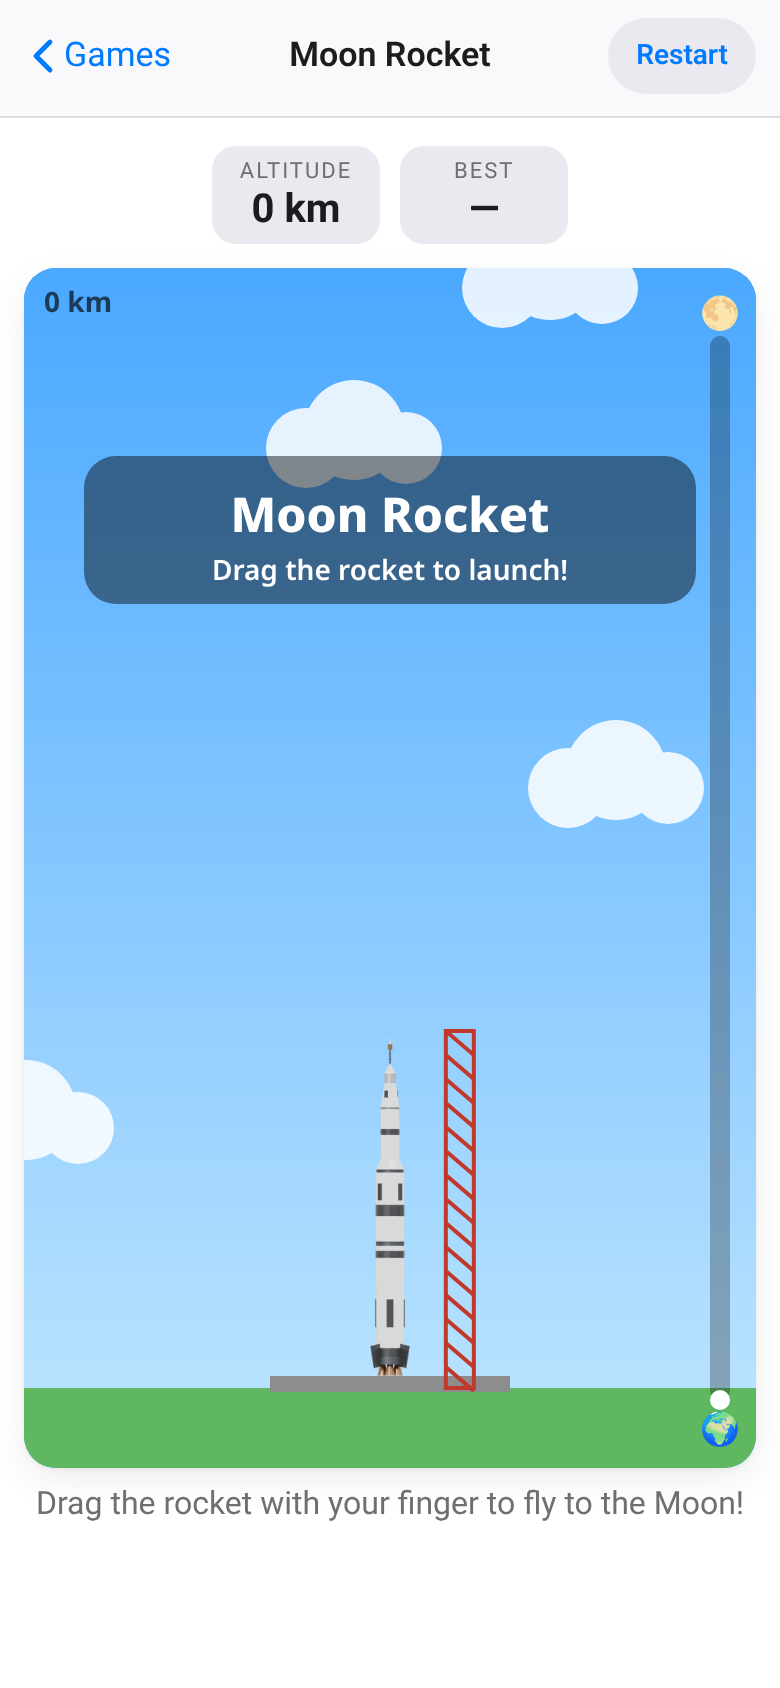
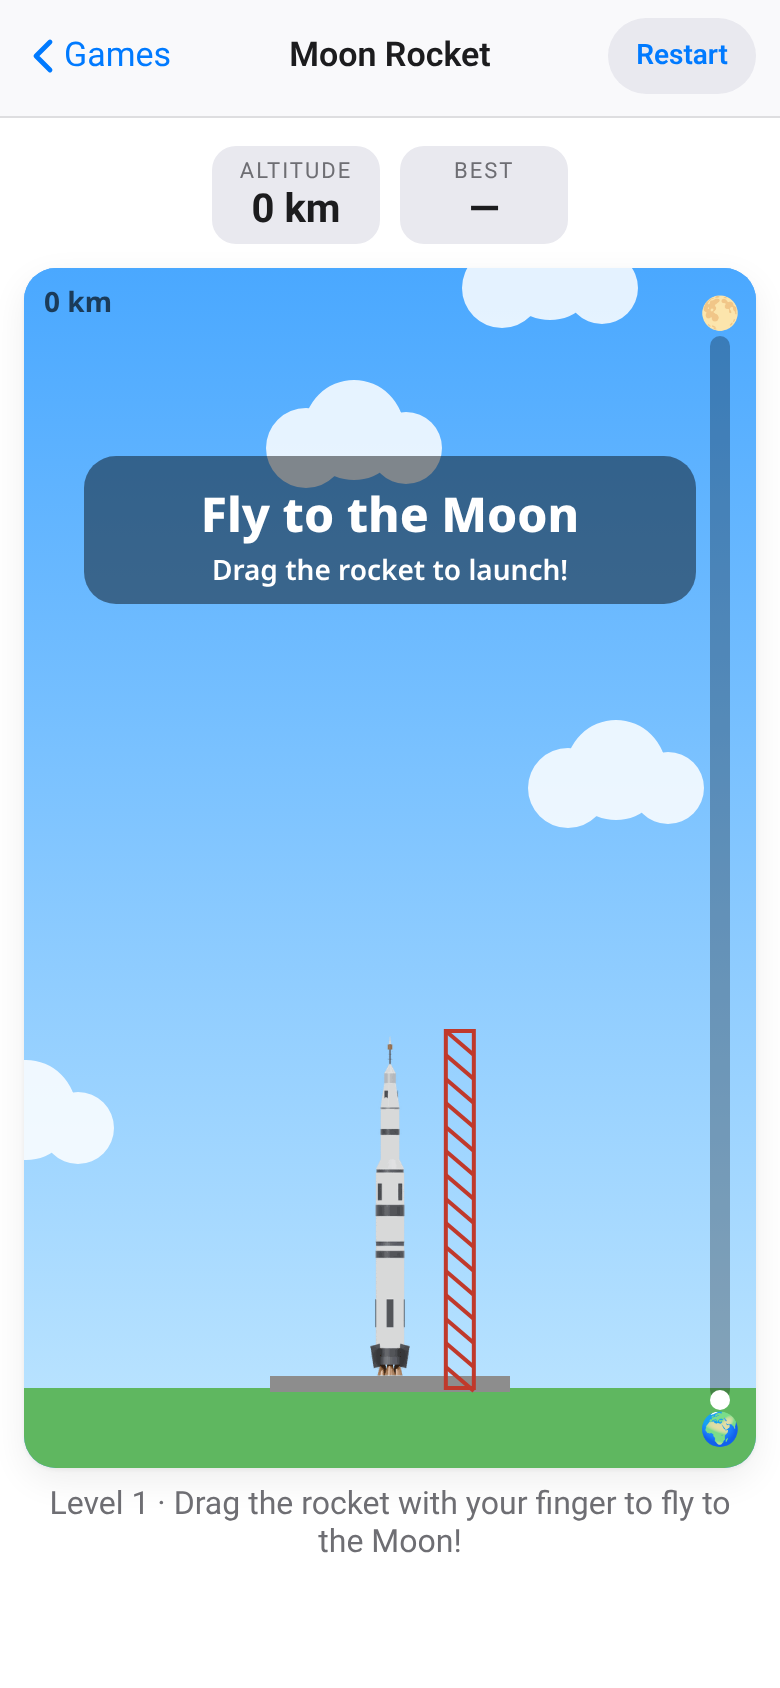
Tests and screenshots for Moon Rocket Level 2 landing

diff --git a/tests/e2e.py b/tests/e2e.py
@@ -228,7 +228,7 @@ with sync_playwright() as p:
     # ================= About =================
     open_app('settings'); page.click('.set-row:has-text("About")'); page.wait_for_timeout(300)
     about = page.inner_text('#appBody')
-    check(all(k in about for k in ['ShellOS', 'Version 1.4.0', 'Apps (19)', 'Games (12)', 'YouTube safety', 'youtube-nocookie.com', 'Screen Time in ShellOS', 'Buddy', 'Safety', 'Shell filter', 'Privacy', 'Open-Meteo', 'Wikipedia', 'iPhone limits', 'volume buttons', 'Guided Access', 'Limit Adult Websites', 'Kampf Kaiser']), 'About has version, apps, games, Buddy, safety, privacy, limits, Screen Time, credits')
+    check(all(k in about for k in ['ShellOS', 'Version 1.5.0', 'Apps (19)', 'Games (12)', 'YouTube safety', 'youtube-nocookie.com', 'Screen Time in ShellOS', 'Buddy', 'Safety', 'Shell filter', 'Privacy', 'Open-Meteo', 'Wikipedia', 'iPhone limits', 'volume buttons', 'Guided Access', 'Limit Adult Websites', 'Kampf Kaiser']), 'About has version, apps, games, Buddy, safety, privacy, limits, Screen Time, credits')
     check('19845' not in about and '19845' not in page.content(), 'About never shows the developer code')
     shot('about.png'); back()
     page.click('.set-row:has-text("Shake for Buddy")'); page.wait_for_timeout(300); shot('extra/settings-shake.png'); back(); back()
@@ -684,9 +684,68 @@ with sync_playwright() as p:
     check(page.evaluate(G + '.banner') is None, 'no stage banner ("Almost there") over the win screen')
     check(mb - 5 <= rw['y'] <= mb, 'at the win the rocket nose touches the Moon (nose %.1f, Moon bottom %.1f)' % (rw['y'], mb))
     check(page.evaluate('LS.gameBest("moonrocket")') == 384400 and 'Moon!' in page.inner_text('.score-row'), 'best = the Moon (384,400 km)')
-    page.wait_for_timeout(700); shot('moonrocket-win.png')
+    check(page.locator('.mr-land-btn:not([hidden])').count() == 1 and 'Land on the Moon' in page.inner_text('.mr-land-btn'), 'Level 1 win shows "Land on the Moon" continue button')
+    check('Restart Level 1' in page.inner_text('#appActions'), 'Level 1 win offers Restart Level 1')
+    page.wait_for_timeout(500); shot('moonrocket-win.png')
+
+    # ================= Moon Rocket Level 2: Land =================
+    page.click('.mr-land-btn'); page.wait_for_timeout(600)
+    check(page.evaluate(G + '.level') == 2 and page.evaluate(G + '.state') == 'land_ready', 'Land button starts Level 2 (landing)')
+    check(page.locator('.mr-thrust:not([hidden])').count() == 1 and page.evaluate(G + '.fuel') == 100, 'Level 2 shows Thrust button and full fuel')
+    check(page.evaluate(G + '.rocket().keep') < 0.5, 'Level 2 uses the upper-stage / lander sprite')
+    pad = page.evaluate(G + '.pad()')
+    check(pad and pad['w'] >= 80, 'landing pad is on the lunar surface')
+    # hard crash: drop onto the pad too fast
+    page.evaluate('(() => { const g = ' + G + '; const p = g.pad(); g.setLand({ state: "land_play", x: p.x + p.w / 2, alt: 5, vy: 20, vx: 0, fuel: 80 }); for (let i = 0; i < 8; i++) g.step(0.05); })()')
+    page.wait_for_timeout(200)
+    check(page.evaluate(G + '.state') == 'land_crash' and 'Bonk' in page.inner_text('.game-msg'), 'too-hard a touchdown crashes gently ("Bonk!")')
+    page.wait_for_timeout(700); page.click('canvas.mr-canvas'); page.wait_for_timeout(400)
+    check(page.evaluate(G + '.state') == 'land_ready' and page.evaluate(G + '.fuel') == 100, 'tap retries landing from a high hover with full fuel')
+    # miss the pad
+    page.evaluate('(() => { const g = ' + G + '; const p = g.pad(); g.setLand({ state: "land_play", x: 20, alt: 3, vy: 4, vx: 0, fuel: 50 }); for (let i = 0; i < 30; i++) g.step(0.05); })()')
+    page.wait_for_timeout(150)
+    check(page.evaluate(G + '.state') == 'land_crash' and 'pad' in page.inner_text('.game-msg').lower(), 'missing the pad crashes')
+    page.click('canvas.mr-canvas'); page.wait_for_timeout(400)
+    # soft land: place over the pad, slow descent
+    page.evaluate('(() => { const g = ' + G + '; const p = g.pad(); g.setLand({ state: "land_play", x: p.x + p.w / 2, alt: 8, vy: 4, vx: 0, fuel: 62 }); for (let i = 0; i < 40; i++) g.step(0.05); })()')
+    page.wait_for_timeout(300)
+    check(page.evaluate(G + '.state') == 'land_win' and 'landed' in page.inner_text('.game-msg').lower(), 'soft land on the pad wins Level 2')
+    check(page.evaluate('LS.gameBestLow("moonland")') > 0 and page.evaluate('LS.gameBestLow("moonland")') <= 1200, 'softest landing best score saved (cm/s): %s' % page.evaluate('LS.gameBestLow("moonland")'))
+    # mid-descent screenshot: restart landing, set mid altitude with thrust feeling
+    page.click('canvas.mr-canvas'); page.wait_for_timeout(400)
+    page.evaluate('(() => { const g = ' + G + '; const p = g.pad(); g.setLand({ state: "land_play", x: p.x + p.w / 2 - 30, alt: 420, vy: 9, vx: 5, fuel: 55, thrust: true }); })()')
+    page.wait_for_timeout(400); shot('moonrocket-land.png')
+    # soft-land win screenshot
+    page.evaluate('(() => { const g = ' + G + '; const p = g.pad(); g.setLand({ state: "land_play", x: p.x + p.w / 2, alt: 6, vy: 3.5, vx: 0, fuel: 48 }); for (let i = 0; i < 40; i++) g.step(0.05); })()')
+    page.wait_for_timeout(800); shot('moonrocket-land-win.png')
+    check(page.evaluate(G + '.state') == 'land_win', 'land-win screenshot taken on the celebration screen')
+    # pause while landing
+    page.click('canvas.mr-canvas'); page.wait_for_timeout(300)
+    page.evaluate('(() => { const g = ' + G + '; g.setLand({ state: "land_play", alt: 300, vy: 6 }); })()')
+    page.evaluate('Object.defineProperty(document, "hidden", { configurable: true, get: () => true }); document.dispatchEvent(new Event("visibilitychange"))'); page.wait_for_timeout(200)
+    a1 = page.evaluate(G + '.alt'); page.wait_for_timeout(500)
+    check(page.evaluate(G + '.paused') and abs(page.evaluate(G + '.alt') - a1) < 0.01, 'Level 2 pauses while ShellOS is hidden')
+    page.evaluate('delete document.hidden; document.dispatchEvent(new Event("visibilitychange"))'); page.wait_for_timeout(200)
+    # thrust button works
+    page.click('canvas.mr-canvas'); page.wait_for_timeout(200)
+    page.evaluate('(() => { const g = ' + G + '; g.setLand({ state: "land_play", alt: 500, vy: 8, fuel: 90 }); })()')
+    page.dispatch_event('.mr-thrust', 'pointerdown'); page.wait_for_timeout(100)
+    check(page.eval_on_selector('.mr-thrust', 'e => e.classList.contains("on")'), 'holding Thrust lights the button')
+    v0 = page.evaluate(G + '.vy')
+    page.evaluate('(() => { const g = ' + G + '; g.setThrust(true); for (let i = 0; i < 20; i++) g.step(0.05); })()')
+    v1 = page.evaluate(G + '.vy'); page.dispatch_event('.mr-thrust', 'pointerup')
+    check(v1 < v0 - 1 and page.evaluate(G + '.fuel') < 90, 'Thrust slows the fall and burns fuel (vy %.1f -> %.1f, fuel %s)' % (v0, v1, page.evaluate(G + '.fuel')))
+    # best landing resets with unlock
+    page.evaluate('localStorage.setItem("lockshell.best.moonland", "350")')
+    back(); back(); page.wait_for_timeout(300)
+    page.click('#homeLock'); page.wait_for_timeout(300); page.keyboard.type('2468'); page.wait_for_timeout(900)
+    check(page.evaluate('localStorage.getItem("lockshell.best.moonland")') is None, 'landing best score resets on unlock after a lock')
+    open_app('games')
+    check('Landed' in page.inner_text('#appBody') or 'Moon' in page.inner_text('#appBody') or 'flights' in page.inner_text('#appBody').lower(), 'Games card mentions Moon Rocket progress')
+    # re-open and confirm Level 1 still works after Level 2
+    page.click('.game-card:has-text("Moon Rocket")'); page.wait_for_timeout(500)
+    check(page.evaluate(G + '.level') == 1 and page.evaluate(G + '.state') == 'ready', 'reopening Moon Rocket starts at Level 1')
     back()
-    check('reached the Moon' in page.inner_text('#appBody'), 'Games card shows the Moon Rocket record')
 
     # ================= Block World =================
     page.evaluate('localStorage.removeItem("lockshell.blockworld.v1")')

diff --git a/tests/live_smoke.py b/tests/live_smoke.py
@@ -16,7 +16,7 @@ with sync_playwright() as p:
     r = page.goto(URL + '?smoke=1'); page.wait_for_timeout(1500)
     check(r.status == 200, 'live page 200')
     check(page.title() == 'ShellOS', 'title ShellOS')
-    check(page.evaluate('LS.VERSION') == '1.4.0', 'LS.VERSION 1.4.0')
+    check(page.evaluate('LS.VERSION') == '1.5.0', 'LS.VERSION 1.5.0')
     act = lambda s: page.eval_on_selector(s, 'e => e.classList.contains("active")')
     tap = lambda k: page.click(f'#lockPad button[data-k="{k}"]')
     for k in '19845': tap(k)
@@ -91,7 +91,7 @@ with sync_playwright() as p:
     except Exception: pass
     check(ok, 'real kid site (Nat Geo Kids) loads in the Shell frame')
     caches = page.evaluate('caches.keys()')
-    check('lockshell-v1.4.0' in caches, 'SW cache lockshell-v1.4.0 (' + ','.join(caches) + ')')
+    check('lockshell-v1.5.0' in caches, 'SW cache lockshell-v1.5.0 (' + ','.join(caches) + ')')
     check(not errors, 'no ShellOS page/console errors ' + str(errors[:3]))
     b.close()
 print('RESULT:', 'ALL PASSED' if not fails else 'FAILED ' + str(fails))
